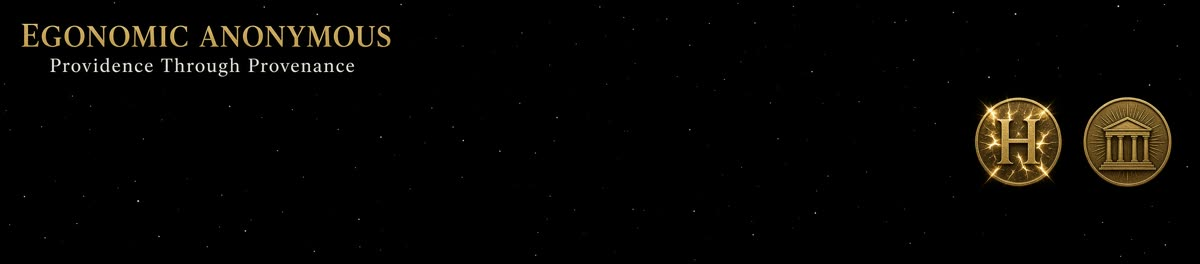
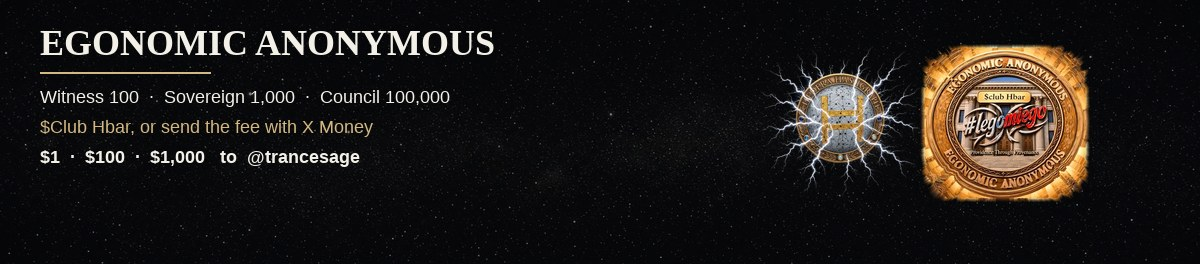
Update the share preview with the current fees and the X Money send line.

diff --git a/src/routes/__root.tsx b/src/routes/__root.tsx
@@ -5,7 +5,7 @@ import appCss from "../styles.css?url";
 
 const APP_NAME = "Egonomic Anonymous";
 const APP_DESCRIPTION =
-  "The Providence Through Provenance. A sovereign ledger that empowers self-sovereignty — origin, authority, and honor, proven on Hedera. Fees in $Club Hbar.";
+  "Witness 100 $Club Hbar or $1 US. Sovereign 1,000 or $100 US. Council 100,000 or $1,000 US. Send the fee with X Money to @trancesage.";
 
 export const Route = createRootRoute({
   head: () => ({
